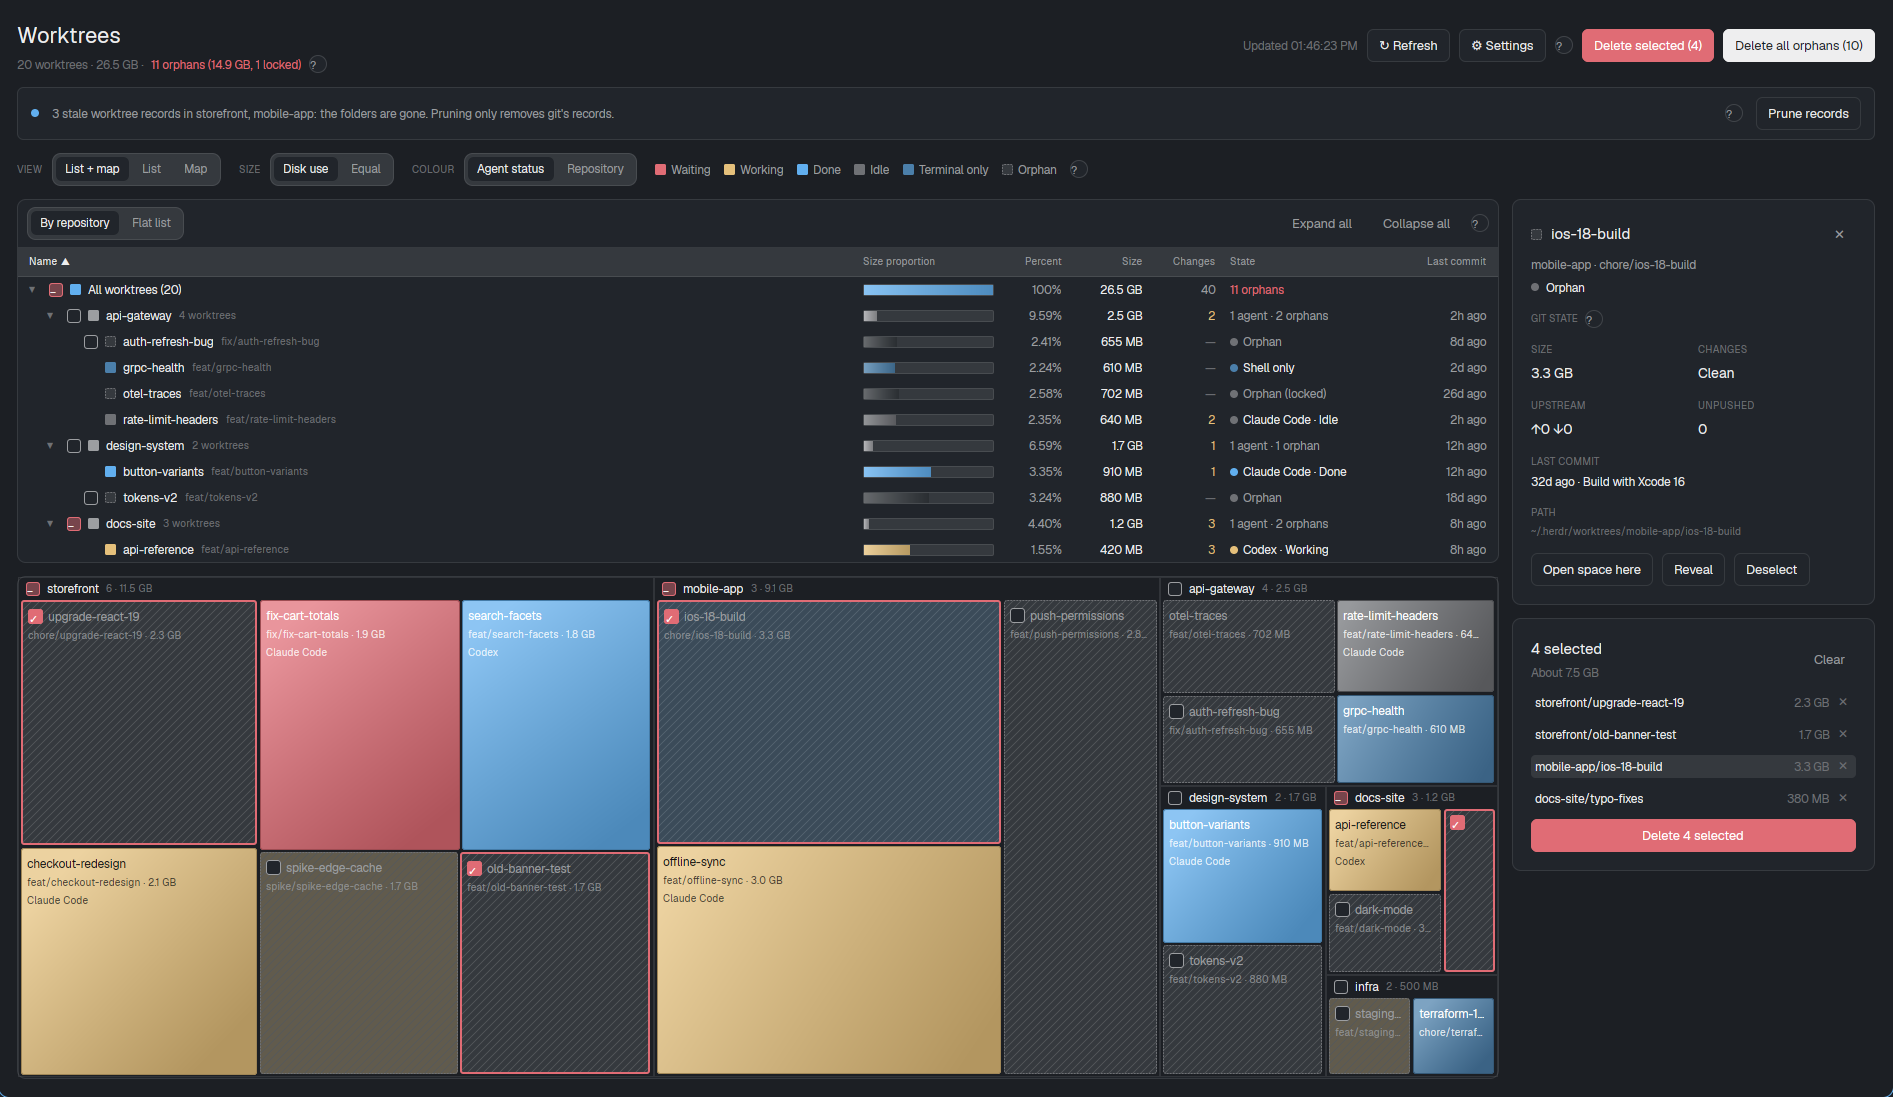
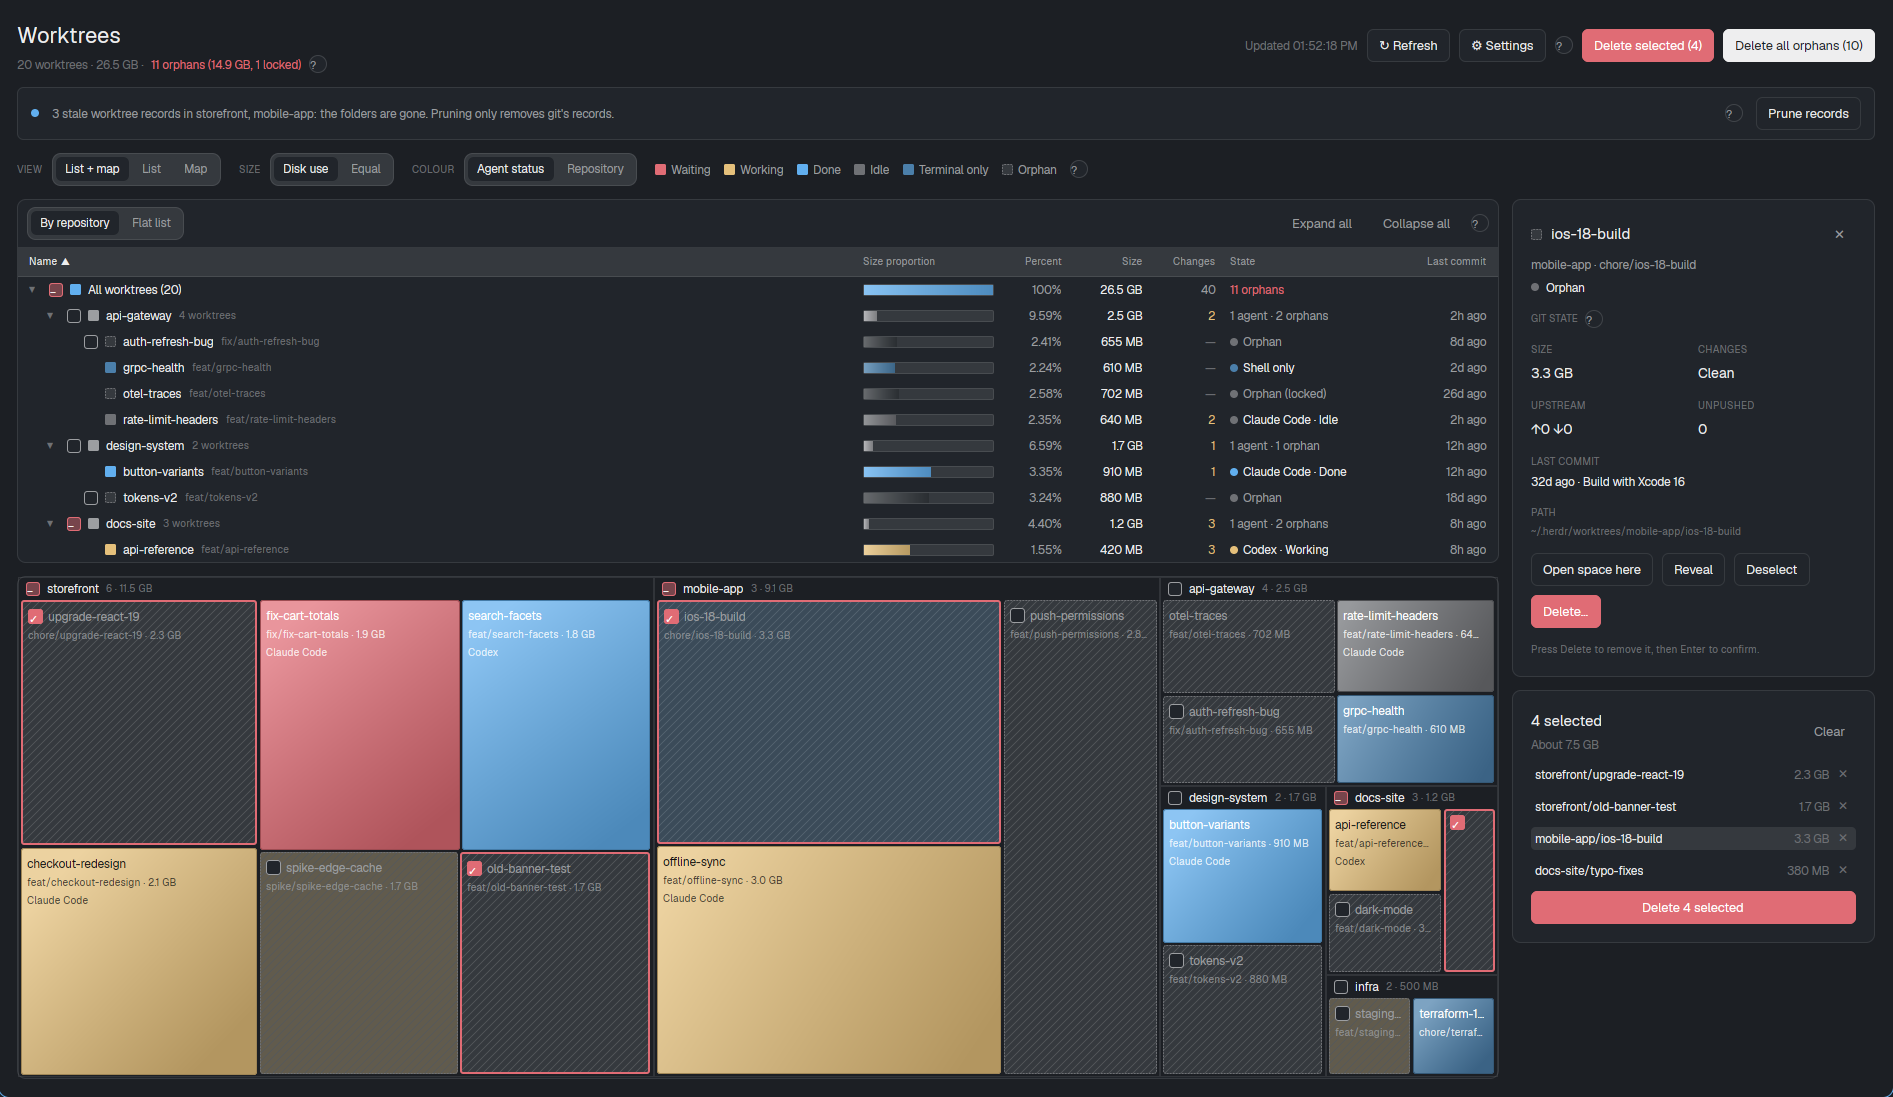
Add delete keys, fix orphan counts and Linux issues
Delete (or Backspace) asks to remove the selected orphans or the pinned
one, Enter confirms the clean ones and Esc cancels; the details panel
gets a Delete… button. Discarding changes still takes a click.

Orphan counts now include locked orphans everywhere, with the locked
count in the header. Retake the screenshots and tour GIF.

Changed region(s): [[0.8104, 0.5269, 0.9974, 0.8678], [0.6545, 0.031, 0.7169, 0.062]]

diff --git a/mods/worktree-sprawl/main.js b/mods/worktree-sprawl/main.js
@@ -92,6 +92,7 @@ const HELP = {
       { term: "Red border with ✓", text: "Selected for deletion." },
       { term: "Clicking", text: "Hover a block to preview it in the panel. Click it to pin it (highlighted outline): the panel then stays on it while you move the pointer. Click it again, press ✕ in the panel, or click empty map space to unpin." },
       { term: "Selecting orphans", text: "Tick the box in an orphan’s top-left corner, or use Select to delete in its details. Selecting also pins it. Click a name in the Selected list to bring its details back." },
+      { term: "Keys", text: "After clicking a worktree: Delete (or Backspace) asks to remove the selected orphans, or the one shown in the panel if none are selected. In the confirmation, Enter removes the clean ones and Esc cancels. Esc also unpins." },
     ],
   },
   list: {
@@ -378,6 +379,7 @@ export default class WorktreeSprawl extends View {
     this.toolbarMode = props()?.mode === "toolbar";
     if (this.toolbarMode) return;
 
+    this.keys = cx.focus_handle();  // holds the keyboard after a click on a worktree: Delete, Enter, Escape
     this.items = [];
     this.stale = [];
     this.sizes = {};
@@ -789,6 +791,7 @@ export default class WorktreeSprawl extends View {
 
   /** Click: pin a worktree's details in the panel (again: unpin). */
   pinTile(tile, cx) {
+    this.keys.focus();
     this.pinned = this.pinned === tile.path ? null : tile.path;
     cx.notify();
   }
@@ -796,6 +799,7 @@ export default class WorktreeSprawl extends View {
   /** The orphan checkbox and the panel's Select button: mark for deletion. */
   toggleSelect(tile, cx) {
     if (tile.state !== "orphan" || tile.locked) return;
+    this.keys.focus();
     if (this.selected.has(tile.path)) this.selected.delete(tile.path);
     else {
       this.selected.add(tile.path);
@@ -807,7 +811,47 @@ export default class WorktreeSprawl extends View {
 
   askRemove(paths, kind, cx) {
     this.confirm = { paths, kind };
+    this.keys.focus(); // so Enter and Escape answer the confirmation
     cx.notify();
+  }
+
+  /** What the open confirmation would remove: all of it, and the part that loses nothing but the folder. */
+  confirmParts(m) {
+    const byPath = new Map(m.tiles.map((t) => [t.path, t]));
+    const targets = (this.confirm?.paths ?? []).map((p) => byPath.get(p)).filter((t) => t && t.state === "orphan" && !t.locked);
+    // "Clean" means nothing is lost but the folder: no uncommitted changes and no ignored local files.
+    return { targets, clean: targets.filter((t) => !t.dirty && !t.hasLocal), risky: targets.filter((t) => t.dirty || t.hasLocal) };
+  }
+
+  /**
+   * Keys, once a worktree has been clicked. Delete (or Backspace) asks to remove the selected orphans,
+   * else the pinned one. In the confirmation, Enter removes the clean ones and Escape cancels; discarding
+   * changes or local files always takes a click. Escape otherwise unpins.
+   */
+  onKey(event, cx) {
+    if (this.showSettings || this.deleting || event.keystroke !== event.key) return;
+    const key = event.key;
+    if (this.confirm) {
+      if (key === "escape") { this.confirm = null; cx.notify(); }
+      else if (key === "enter") {
+        const { clean } = this.confirmParts(this.model());
+        if (clean.length) this.remove(clean.map((t) => t.path), cx);
+      }
+      return;
+    }
+    if (key === "delete" || key === "backspace") {
+      const pinned = this.model().tiles.find((t) => t.path === this.pinned);
+      const paths = this.selected.size ? [...this.selected] : pinned && pinned.state === "orphan" && !pinned.locked ? [pinned.path] : [];
+      if (!paths.length) return;
+      if (this.busyWork() || !this.liveScan) {
+        notify({ title: "Wait for the scan to finish", body: "Worktrees can be removed once the current scan is complete.", level: "warning" });
+        return;
+      }
+      this.askRemove(paths, "selected", cx);
+    } else if (key === "escape" && this.pinned) {
+      this.pinned = null;
+      cx.notify();
+    }
   }
 
   remove(paths, cx) {
@@ -1054,6 +1098,7 @@ export default class WorktreeSprawl extends View {
     }
 
     return v_flex().id("wtm-root").size_full().min_h(0).bg(c.canvas).text_color(c.text)
+      .track_focus(this.keys).on_key_down((event, cx) => this.onKey(event, cx))
       .p(G.lg).gap(G.md).children(body);
   }
 
@@ -1107,11 +1152,7 @@ export default class WorktreeSprawl extends View {
   }
 
   confirmBar(c, m) {
-    const byPath = new Map(m.tiles.map((t) => [t.path, t]));
-    const targets = this.confirm.paths.map((p) => byPath.get(p)).filter((t) => t && t.state === "orphan" && !t.locked);
-    // "Clean" means nothing is lost but the folder: no uncommitted changes and no ignored local files.
-    const clean = targets.filter((t) => !t.dirty && !t.hasLocal);
-    const risky = targets.filter((t) => t.dirty || t.hasLocal);
+    const { targets, clean, risky } = this.confirmParts(m);
     const dirty = targets.filter((t) => t.dirty);
     const local = targets.filter((t) => t.hasLocal);
     const kb = (list) => list.reduce((s, t) => s + (t.size ?? 0), 0);
@@ -1135,7 +1176,9 @@ export default class WorktreeSprawl extends View {
     return v_flex().w_full().gap(G.sm).p(G.md).rounded(R.control).bg(c.card).border_1().border_color(c.destructive)
       .child(div().text_size(this.fs(12)).font_semibold().child(targets.length ? "Remove worktrees?" : "Nothing to remove"))
       .children(lines.map((l) => div().text_size(T.small).text_color(c.mutedForeground).child(l)))
-      .child(actions);
+      .child(actions)
+      .child(div().text_size(T.label).text_color(c.dim)
+        .child(clean.length ? `Enter removes ${risky.length ? `the ${clean.length} clean` : plural(clean.length, "worktree")} · Esc cancels` : "Esc cancels"));
   }
 
   failuresBar(c) {
@@ -1654,7 +1697,11 @@ export default class WorktreeSprawl extends View {
         .child(button("wtm-open-space", "Open space here", () => run("space.new", { folder: tile.path }), c, { variant: "outline" }))
         .child(button("wtm-reveal", "Reveal", (_e, cx) => { cx.spawn(async () => { await reveal(tile.path); }); }, c, { variant: "outline", tooltip: "Open the folder in the file manager" }))
         .when(isOrphan && !tile.locked, (el) => el.child(button("wtm-toggle-select", selected ? "Deselect" : "Select to delete",
-          (_e, cx) => this.toggleSelect(tile, cx), c, { variant: selected ? "outline" : "danger" }))));
+          (_e, cx) => this.toggleSelect(tile, cx), c, { variant: "outline" }))
+          .child(button("wtm-delete-one", "Delete…", (_e, cx) => this.askRemove([tile.path], "selected", cx), c,
+            { variant: "danger", disabled: this.busyWork() || !this.liveScan, tooltip: "Remove this worktree (asks first). Key: Delete" }))))
+      .when(isOrphan && !tile.locked, (el) => el.child(div().text_size(T.label).text_color(c.dim)
+        .child("Press Delete to remove it, then Enter to confirm.")));
   }
 
   selectionCard(c, m) {

diff --git a/README.md b/README.md
@@ -54,6 +54,8 @@ A worktree is an orphan when no live terminal on this machine has its working fo
 
 Select orphans with the checkbox on a block or row, the group checkbox on a repository (all of its orphans), or **Select to delete** in the panel. **Delete selected** and **Delete all orphans** both open a confirmation listing the count and size first.
 
+For one worktree the quick way is the keyboard: click an orphan, press **Delete** (or Backspace), then **Enter**. Delete opens the confirmation for the worktree in the panel, or for every selected orphan when some are ticked; the panel's **Delete…** button does the same. In the confirmation, Enter removes the clean worktrees and **Esc** cancels. Discarding uncommitted changes or local files has no key: that always takes a click on its button. Esc also unpins a worktree.
+
 - Worktrees with uncommitted changes, or with ignored local files that git would delete along with the folder (`.env`, local config; build output such as `node_modules` and `dist` doesn't count), are listed separately with a sample of the files. You choose between removing only the clean ones and removing all of them.
 - Removal runs `git worktree remove` one worktree at a time. `--force` is used only for a worktree with uncommitted changes, and only after you chose to discard them.
 - Right before each removal the mod checks again that no terminal is inside and that the worktree isn't locked. If the lock state can't be read, the worktree is skipped.

diff --git a/RECIPE.md b/RECIPE.md
@@ -138,6 +138,12 @@ All colors come from `theme()` unless the person picks their own.
 - **Orphan counts** (header, "All worktrees" row, repository rows, Overview)
   are of every orphan, locked ones included; the header adds ", n locked". Only
   **Delete all orphans (n)** counts the ones that can be removed.
+- **Keys** (the root tracks a focus handle, focused when a worktree is clicked
+  or a confirmation opens; ignored on the Settings page and with modifiers):
+  Delete or Backspace opens the confirmation for the selected orphans, else for
+  the pinned orphan; in the confirmation Enter removes the clean ones and Escape
+  cancels (the "discard" button has no key); Escape otherwise unpins. The
+  details card of an orphan has a **Delete…** button that does the same.
 - **Locked:** worktrees locked with `git worktree lock`, or whose repo's lock
   state couldn't be read, show "Orphan (locked)" / "Orphan (lock state
   unknown)" and can't be selected.
